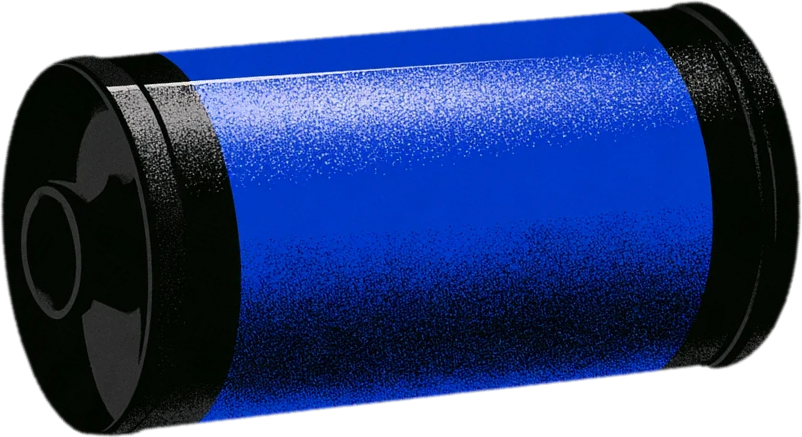
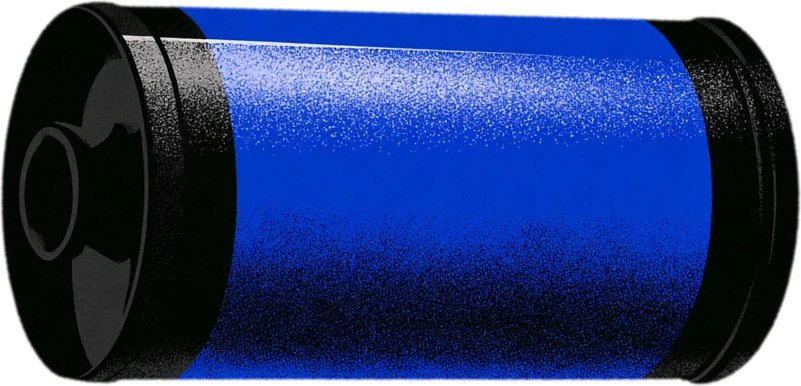
Level the patrone with the film; auto-mode film at 0.7x
- Re-rotate the canister image so its film slit runs level (was rising ~6.5°)
- Auto mode pulls the film at 0.7x the import pace; the rest rolls out at the end

Claude-Session: https://claude.ai/code/session_019mGVvMaWmghTMJLqnUjwMX

diff --git a/recap-video/index.html b/recap-video/index.html
@@ -118,11 +118,11 @@ button { font: inherit; color: inherit; }
 }
 .recap[data-step="loading"] .recap-title, .recap[data-step="done"] .recap-title { top: 94px; }
 .canister {
-  position: absolute; left: 50%; top: 332px; width: 252px; height: 137px; margin-left: -126px; z-index: 3;
+  position: absolute; left: 50%; top: 332px; width: 252px; height: 121px; margin-left: -126px; z-index: 3;
   transform: rotate(32deg);
   transition: top 1.6s var(--ease-out-expo), transform 1.6s var(--ease-out-expo);
 }
-.recap[data-step="loading"] .canister, .recap[data-step="done"] .canister { top: 176px; transform: rotate(0deg); }
+.recap[data-step="loading"] .canister, .recap[data-step="done"] .canister { top: 190px; transform: rotate(0deg); }
 /* A soft black glow sets the canister off the #1C1C1E screen; the faint rim keeps its dark edges readable */
 .canister img { width: 100%; height: 100%; display: block; filter: drop-shadow(0 0 .6px rgba(255,255,255,.55)) drop-shadow(0 10px 34px #000); }
 .canister-in.enter { animation: canIn 1.6s var(--ease-out-expo) both; }
@@ -465,7 +465,9 @@ button { font: inherit; color: inherit; }
     $('progress').setAttribute('aria-valuenow', Math.round(p * 100));
   };
 
-  // The import always takes the set time, whether or not the viewer winds the film
+  // The import always takes the set time, whether or not the viewer winds the film.
+  // In auto mode the film comes out at 0.7× the import's pace; the rest rolls out when it finishes.
+  const AUTO_FILM = .7;
   const startLoading = () => {
     const T = $('loadSecs').value * 1000;
     const t0 = performance.now();
@@ -474,7 +476,7 @@ button { font: inherit; color: inherit; }
       // Mostly linear with a gentle surge and lull, so it reads as real work rather than a timer
       const p = u - .05 * Math.sin(2 * Math.PI * u);
       setProgress(p);
-      if (!manual) setStrip(p);
+      if (!manual) setPulled(p * AUTO_FILM);
       if (u < 1) loadRaf = requestAnimationFrame(tick);
       else goto('done');
     };
@@ -585,7 +587,7 @@ button { font: inherit; color: inherit; }
       startLoading();
     } else if (next === 'done') {
       setProgress(1);
-      if (manual && wasOpen && pulled < 1) finishFilm(); else setPulled(1);
+      if (wasOpen && pulled < 1) finishFilm(); else setPulled(1);
     }
   };
 
